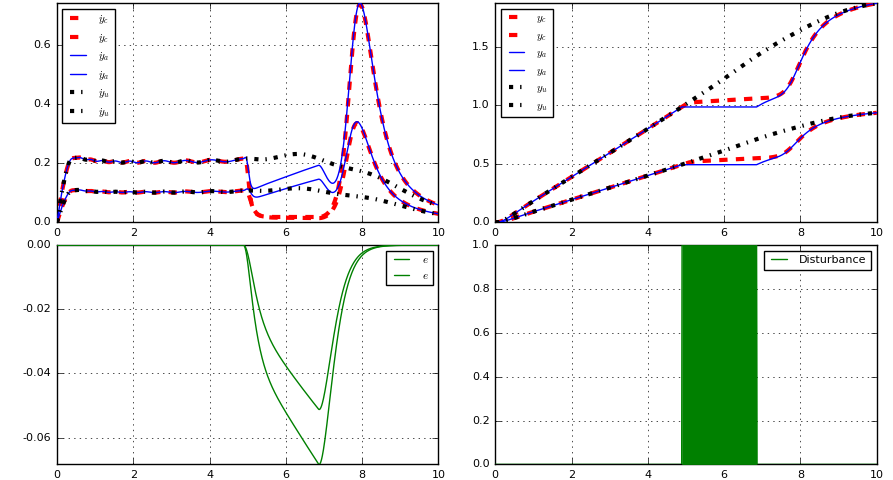
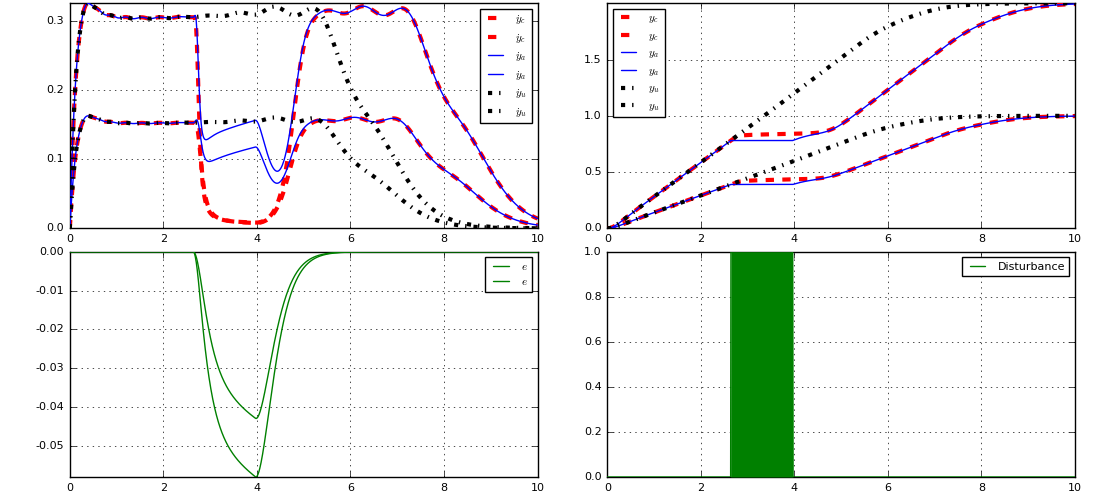
bugfix dmp2dof

diff --git a/README.md b/README.md
@@ -21,7 +21,7 @@ Nbasis  = 15
 αx      = 1.
 opts    = DMPopts(Nbasis,αx,αz)
 
-y       = [zeros(10);linspace(0,2,1000); 2ones(10)]
+y       = [zeros(10);linspace(0,2,1000); 2ones(500)]
 T       = length(y)
 t       = linspace(0,10,T)
 h       = t[2]-t[1] # Sample interval
@@ -65,7 +65,7 @@ function euler_disturbance(time_derivative, state0, t, args...; kwargs...)
     res[1,:] = state0
     for i in 2:T
         td = time_derivative(t[i-1],res[i-1,:])*(t[i]-t[i-1])
-        if 500 <= i < 700 # Hold ẏa still
+        if 400 <= i < 600 # Hold ẏa still
             td[3] = 0
         end
         res[i,:] = res[i-1,:] + td
@@ -82,7 +82,7 @@ plot!(t,yc, lab="\$y_c\$", c=:red, l=(:dash, 3), subplot=2)
 plot!(t,ẏa, lab="\$ẏ_a\$", c=:blue, subplot=1)
 plot!(t,ya, lab="\$y_a\$", c=:blue, subplot=2)
 plot!(t,e, lab="\$e\$", c=:green, subplot=3)
-plot!(t,500 .<= 1:T .< 700, lab="Disturbance", c=:green, subplot=4, fillrange=0)
+plot!(t,400 .<= 1:T .< 600, lab="Disturbance", c=:green, subplot=4, fillrange=0)
 t,yc,ẏc,x,ya,ẏa,e = solve(dmp2,t, solver=euler)
 plot!(t,ẏc, lab="\$ẏ_u\$", c=:black, l=(:dashdot, 3), subplot=1)
 plot!(t,yc, lab="\$y_u\$", c=:black, l=(:dashdot, 3), subplot=2)
